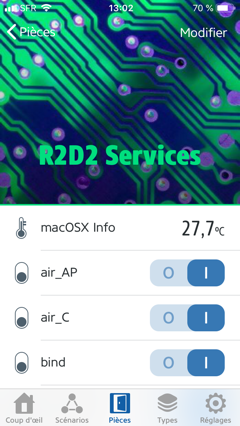
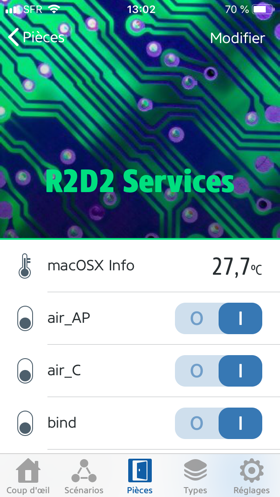
v1.0.0

diff --git a/README.md b/README.md
@@ -13,10 +13,10 @@ Such as :
 * UpdateTime
 
 You can see below two screenshots for illustrate homebridge-macos-info homebridge/HomeKit plugin.
-<div style="width:510px; height:426px; overflow:scroll; overflow-x: scroll;overflow-y: hidden">
-<img style=" float:left; display:inline" src=https://di-marco.net/screenshots/screenshot_1.png width="240px" height="426px"/>
+<div style="width:590px; height:497px; overflow:scroll; overflow-x: scroll;overflow-y: hidden">
+<img style=" float:left; display:inline" src=https://di-marco.net/screenshots/screenshot_1.png width="280px" height="497px"/>
 <img style=" float:left; display:inline" src=https://di-marco.net/screenshots/.fake.png width="30px" height="30px"/>
-<img style=" float:left; display:inline" src=https://di-marco.net/screenshots/screenshot_2.png width="240px" height="426px"/>
+<img style=" float:left; display:inline" src=https://di-marco.net/screenshots/screenshot_2.png width="280px" height="497px"/>
 </div>
 
 ## Exemple of .json data response file
